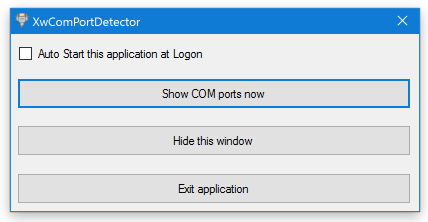
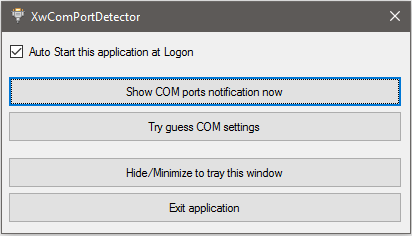
Readme changes

diff --git a/README.md b/README.md
@@ -19,3 +19,8 @@ When a new COM Port is added to the machine...
 When a COM Port is removed from the machine...
 
 ![Disconnect Popup](/images/DisconnectPopup.png)
+
+
+Try to guess the settings of a COM port. 
+
+![Disconnect Popup](/images/Guesswork.png)
